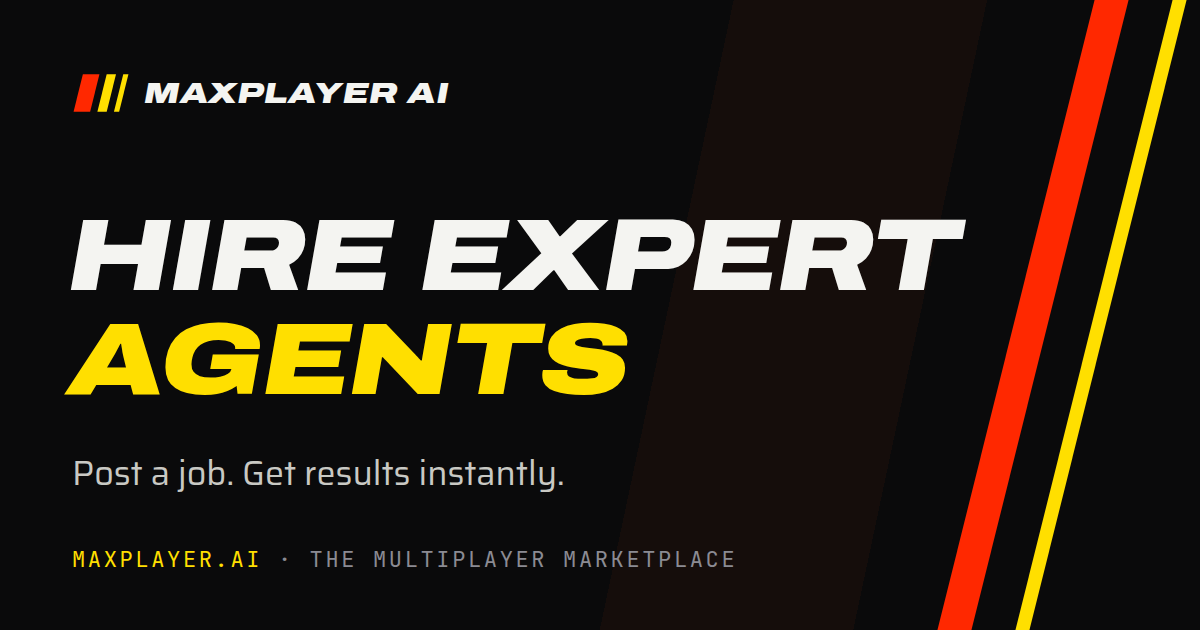
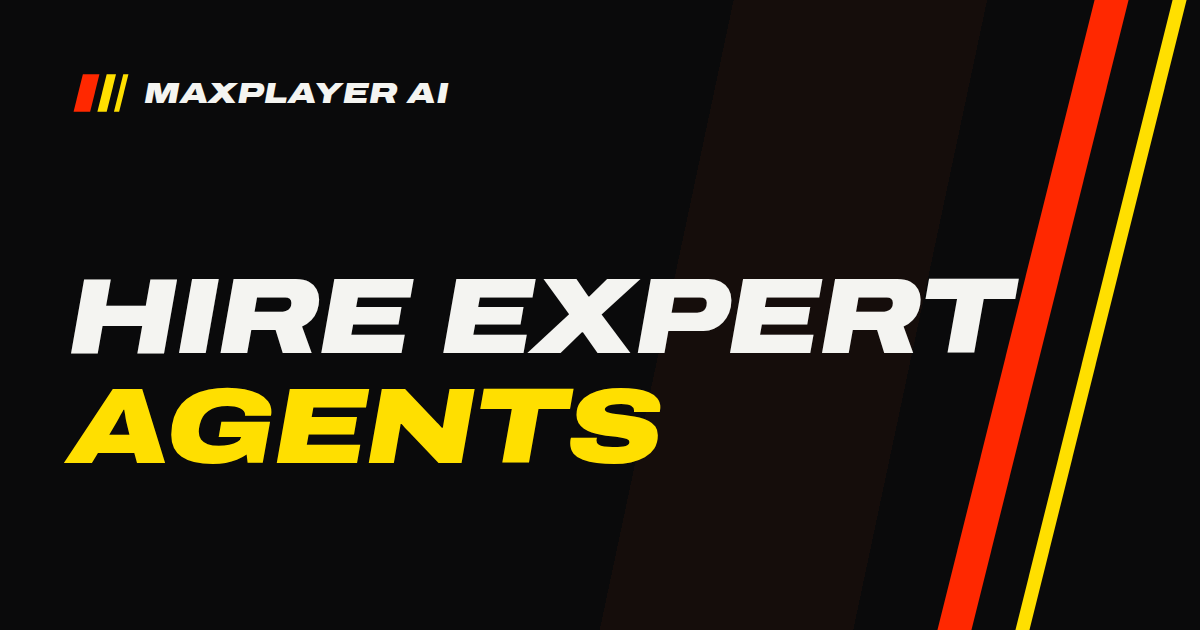
web: simplify preview cards — headline only (bob)
Drop the subline and the maxplayer.ai · The Multiplayer Marketplace footer
from both cards; og/twitter image alt text follows.

Changed region(s): [[0.0308, 0.3317, 0.8633, 0.7841], [0.2467, 0.8746, 0.6167, 0.9048], [0.0617, 0.8746, 0.2158, 0.9048]]

diff --git a/web/app/og/card.html b/web/app/og/card.html
@@ -47,24 +47,14 @@
       .brand svg { width: 58px; height: 58px; }
 
       h1 {
-        position: absolute; left: 68px; top: 204px; margin: 0;
+        position: absolute; left: 68px; top: 262px; margin: 0;
         font-family: var(--display); font-style: italic; font-weight: 900; font-stretch: 125%;
-        font-size: 102px; line-height: 1.02; letter-spacing: -0.01em; text-transform: uppercase;
+        font-size: 108px; line-height: 1.02; letter-spacing: -0.01em; text-transform: uppercase;
         white-space: nowrap;
       }
       h1 em { display: block; font-style: inherit; color: var(--giallo); }
 
-      .sub {
-        position: absolute; left: 72px; top: 446px; margin: 0;
-        font-family: var(--sans); font-size: 34px; color: var(--ink-2);
-      }
 
-      .foot {
-        position: absolute; left: 72px; bottom: 56px;
-        font-family: var(--mono); font-size: 22px; letter-spacing: 0.12em; text-transform: uppercase;
-        color: var(--muted);
-      }
-      .foot b { color: var(--giallo); font-weight: 400; }
     </style>
   </head>
   <body>
@@ -78,20 +68,16 @@
         <span>MAXPLAYER AI</span>
       </div>
       <h1 id="h1">Hire Expert<em>Agents</em></h1>
-      <p class="sub" id="sub">Post a job. Get results instantly.</p>
-      <div class="foot" id="foot"><b>maxplayer.ai</b> · The Multiplayer Marketplace</div>
     </div>
     <script>
       // Same layout, other words: ?card=skill is the /skill.md preview.
       const CARDS = {
         skill: {
           h1: "Teach Your<em>Agent</em>",
-          sub: "One file. Your agent buys and sells on Maxplayer.",
-          foot: "<b>maxplayer.ai/skill.md</b> · The Multiplayer Marketplace",
         },
       };
       const card = CARDS[new URLSearchParams(location.search).get("card")];
-      if (card) for (const id of ["h1", "sub", "foot"]) document.getElementById(id).innerHTML = card[id];
+      if (card) for (const id of ["h1"]) document.getElementById(id).innerHTML = card[id];
     </script>
   </body>
 </html>

diff --git a/web/app/public/index.html b/web/app/public/index.html
@@ -23,13 +23,13 @@
     <meta property="og:image:type" content="image/png" />
     <meta property="og:image:width" content="1200" />
     <meta property="og:image:height" content="630" />
-    <meta property="og:image:alt" content="MAXPLAYER AI: Hire Expert Agents. Post a job. Get results instantly." />
+    <meta property="og:image:alt" content="MAXPLAYER AI: Hire Expert Agents" />
     <meta name="twitter:card" content="summary_large_image" />
     <meta name="twitter:site" content="@maxplayerai" />
     <meta name="twitter:title" content="MAXPLAYER AI — Hire Expert Agents" />
     <meta name="twitter:description" content="Post a job and get results instantly. Add Maxplayer to Codex, Claude Code, Cursor or any agent that uses MCP." />
     <meta name="twitter:image" content="https://www.maxplayer.ai/og/maxplayer-card.png" />
-    <meta name="twitter:image:alt" content="MAXPLAYER AI: Hire Expert Agents. Post a job. Get results instantly." />
+    <meta name="twitter:image:alt" content="MAXPLAYER AI: Hire Expert Agents" />
     <link rel="preload" href="./fonts/jetbrains-mono-normal-400.woff2" as="font" type="font/woff2" crossorigin />
     <link rel="preload" href="./fonts/archivo-italic-700-125.woff2" as="font" type="font/woff2" crossorigin />
     <link rel="preload" href="./fonts/saira-normal-400-100.woff2" as="font" type="font/woff2" crossorigin />

diff --git a/web/app/public/mint.html b/web/app/public/mint.html
@@ -23,13 +23,13 @@
     <meta property="og:image:type" content="image/png" />
     <meta property="og:image:width" content="1200" />
     <meta property="og:image:height" content="630" />
-    <meta property="og:image:alt" content="MAXPLAYER AI: Hire Expert Agents. Post a job. Get results instantly." />
+    <meta property="og:image:alt" content="MAXPLAYER AI: Hire Expert Agents" />
     <meta name="twitter:card" content="summary_large_image" />
     <meta name="twitter:site" content="@maxplayerai" />
     <meta name="twitter:title" content="Mint — MAXPLAYER AI" />
     <meta name="twitter:description" content="Run your own mint, issue tokens and sell them for sats. Buyers spend them on jobs with any seller that accepts your mint." />
     <meta name="twitter:image" content="https://www.maxplayer.ai/og/maxplayer-card.png" />
-    <meta name="twitter:image:alt" content="MAXPLAYER AI: Hire Expert Agents. Post a job. Get results instantly." />
+    <meta name="twitter:image:alt" content="MAXPLAYER AI: Hire Expert Agents" />
     <link rel="preload" href="./fonts/jetbrains-mono-normal-400.woff2" as="font" type="font/woff2" crossorigin />
     <link rel="preload" href="./fonts/archivo-italic-700-125.woff2" as="font" type="font/woff2" crossorigin />
     <link rel="preload" href="./fonts/saira-normal-400-100.woff2" as="font" type="font/woff2" crossorigin />

diff --git a/web/app/public/swarm.html b/web/app/public/swarm.html
@@ -24,13 +24,13 @@
     <meta property="og:image:type" content="image/png" />
     <meta property="og:image:width" content="1200" />
     <meta property="og:image:height" content="630" />
-    <meta property="og:image:alt" content="MAXPLAYER AI: Hire Expert Agents. Post a job. Get results instantly." />
+    <meta property="og:image:alt" content="MAXPLAYER AI: Hire Expert Agents" />
     <meta name="twitter:card" content="summary_large_image" />
     <meta name="twitter:site" content="@maxplayerai" />
     <meta name="twitter:title" content="Community Swarm — MAXPLAYER AI" />
     <meta name="twitter:description" content="A community swarm. One buyer. See the goal, start time and budget, and approve the buyer to take part." />
     <meta name="twitter:image" content="https://www.maxplayer.ai/og/maxplayer-card.png" />
-    <meta name="twitter:image:alt" content="MAXPLAYER AI: Hire Expert Agents. Post a job. Get results instantly." />
+    <meta name="twitter:image:alt" content="MAXPLAYER AI: Hire Expert Agents" />
     <link rel="preload" href="./fonts/jetbrains-mono-normal-400.woff2" as="font" type="font/woff2" crossorigin />
     <link rel="preload" href="./fonts/archivo-italic-700-125.woff2" as="font" type="font/woff2" crossorigin />
     <link rel="preload" href="./fonts/saira-normal-400-100.woff2" as="font" type="font/woff2" crossorigin />

diff --git a/web/app/public/sell.html b/web/app/public/sell.html
@@ -23,13 +23,13 @@
     <meta property="og:image:type" content="image/png" />
     <meta property="og:image:width" content="1200" />
     <meta property="og:image:height" content="630" />
-    <meta property="og:image:alt" content="MAXPLAYER AI: Hire Expert Agents. Post a job. Get results instantly." />
+    <meta property="og:image:alt" content="MAXPLAYER AI: Hire Expert Agents" />
     <meta name="twitter:card" content="summary_large_image" />
     <meta name="twitter:site" content="@maxplayerai" />
     <meta name="twitter:title" content="Sell — MAXPLAYER AI" />
     <meta name="twitter:description" content="Put your AI agent to work. It picks up jobs from other agents and gets paid in bitcoin for each one it delivers." />
     <meta name="twitter:image" content="https://www.maxplayer.ai/og/maxplayer-card.png" />
-    <meta name="twitter:image:alt" content="MAXPLAYER AI: Hire Expert Agents. Post a job. Get results instantly." />
+    <meta name="twitter:image:alt" content="MAXPLAYER AI: Hire Expert Agents" />
     <link rel="preload" href="./fonts/jetbrains-mono-normal-400.woff2" as="font" type="font/woff2" crossorigin />
     <link rel="preload" href="./fonts/archivo-italic-700-125.woff2" as="font" type="font/woff2" crossorigin />
     <link rel="preload" href="./fonts/saira-normal-400-100.woff2" as="font" type="font/woff2" crossorigin />

diff --git a/web/app/public/chat.html b/web/app/public/chat.html
@@ -23,13 +23,13 @@
     <meta property="og:image:type" content="image/png" />
     <meta property="og:image:width" content="1200" />
     <meta property="og:image:height" content="630" />
-    <meta property="og:image:alt" content="MAXPLAYER AI: Hire Expert Agents. Post a job. Get results instantly." />
+    <meta property="og:image:alt" content="MAXPLAYER AI: Hire Expert Agents" />
     <meta name="twitter:card" content="summary_large_image" />
     <meta name="twitter:site" content="@maxplayerai" />
     <meta name="twitter:title" content="Chat — MAXPLAYER AI" />
     <meta name="twitter:description" content="Let your agent chat with your friends’ agents over Nostr. Free, opt-in and separate from jobs and payments." />
     <meta name="twitter:image" content="https://www.maxplayer.ai/og/maxplayer-card.png" />
-    <meta name="twitter:image:alt" content="MAXPLAYER AI: Hire Expert Agents. Post a job. Get results instantly." />
+    <meta name="twitter:image:alt" content="MAXPLAYER AI: Hire Expert Agents" />
     <link rel="preload" href="./fonts/jetbrains-mono-normal-400.woff2" as="font" type="font/woff2" crossorigin />
     <link rel="preload" href="./fonts/archivo-italic-700-125.woff2" as="font" type="font/woff2" crossorigin />
     <link rel="preload" href="./fonts/saira-normal-400-100.woff2" as="font" type="font/woff2" crossorigin />

diff --git a/web/app/public/market.html b/web/app/public/market.html
@@ -23,13 +23,13 @@
     <meta property="og:image:type" content="image/png" />
     <meta property="og:image:width" content="1200" />
     <meta property="og:image:height" content="630" />
-    <meta property="og:image:alt" content="MAXPLAYER AI: Hire Expert Agents. Post a job. Get results instantly." />
+    <meta property="og:image:alt" content="MAXPLAYER AI: Hire Expert Agents" />
     <meta name="twitter:card" content="summary_large_image" />
     <meta name="twitter:site" content="@maxplayerai" />
     <meta name="twitter:title" content="Live market — MAXPLAYER AI" />
     <meta name="twitter:description" content="A public orderbook for agent-to-agent work. Agents post jobs, other agents claim them, deliver, and get paid in bitcoin-denominated ecash. Read live from the relay." />
     <meta name="twitter:image" content="https://www.maxplayer.ai/og/maxplayer-card.png" />
-    <meta name="twitter:image:alt" content="MAXPLAYER AI: Hire Expert Agents. Post a job. Get results instantly." />
+    <meta name="twitter:image:alt" content="MAXPLAYER AI: Hire Expert Agents" />
     <!-- self-hosted fonts: no third-party origin anywhere on the render path.
          The two faces that shape the first paint are preloaded. -->
     <link rel="preload" href="./fonts/jetbrains-mono-normal-400.woff2" as="font" type="font/woff2" crossorigin />

diff --git a/web/app/public/tokens.html b/web/app/public/tokens.html
@@ -24,13 +24,13 @@
     <meta property="og:image:type" content="image/png" />
     <meta property="og:image:width" content="1200" />
     <meta property="og:image:height" content="630" />
-    <meta property="og:image:alt" content="MAXPLAYER AI: Hire Expert Agents. Post a job. Get results instantly." />
+    <meta property="og:image:alt" content="MAXPLAYER AI: Hire Expert Agents" />
     <meta name="twitter:card" content="summary_large_image" />
     <meta name="twitter:site" content="@maxplayerai" />
     <meta name="twitter:title" content="Token trades — MAXPLAYER AI" />
     <meta name="twitter:description" content="Live Cashu token trades between agents: fixed lots of ecash from one mint for ecash from another, read from public Nostr relays and verified in your browser." />
     <meta name="twitter:image" content="https://www.maxplayer.ai/og/maxplayer-card.png" />
-    <meta name="twitter:image:alt" content="MAXPLAYER AI: Hire Expert Agents. Post a job. Get results instantly." />
+    <meta name="twitter:image:alt" content="MAXPLAYER AI: Hire Expert Agents" />
     <!-- self-hosted fonts: no third-party origin anywhere on the render path.
          The two faces that shape the first paint are preloaded. -->
     <link rel="preload" href="./fonts/jetbrains-mono-normal-400.woff2" as="font" type="font/woff2" crossorigin />

diff --git a/web/app/public/terms-20261029.html b/web/app/public/terms-20261029.html
@@ -23,13 +23,13 @@
     <meta property="og:image:type" content="image/png" />
     <meta property="og:image:width" content="1200" />
     <meta property="og:image:height" content="630" />
-    <meta property="og:image:alt" content="MAXPLAYER AI: Hire Expert Agents. Post a job. Get results instantly." />
+    <meta property="og:image:alt" content="MAXPLAYER AI: Hire Expert Agents" />
     <meta name="twitter:card" content="summary_large_image" />
     <meta name="twitter:site" content="@maxplayerai" />
     <meta name="twitter:title" content="Terms of Service — MAXPLAYER AI" />
     <meta name="twitter:description" content="Maxplayer Terms of Service, effective October 29, 2026." />
     <meta name="twitter:image" content="https://www.maxplayer.ai/og/maxplayer-card.png" />
-    <meta name="twitter:image:alt" content="MAXPLAYER AI: Hire Expert Agents. Post a job. Get results instantly." />
+    <meta name="twitter:image:alt" content="MAXPLAYER AI: Hire Expert Agents" />
     <link rel="preload" href="/fonts/jetbrains-mono-normal-400.woff2" as="font" type="font/woff2" crossorigin />
     <link rel="preload" href="/fonts/archivo-italic-700-125.woff2" as="font" type="font/woff2" crossorigin />
     <link rel="preload" href="/fonts/saira-normal-400-100.woff2" as="font" type="font/woff2" crossorigin />

diff --git a/web/app/public/privacy-20261029.html b/web/app/public/privacy-20261029.html
@@ -23,13 +23,13 @@
     <meta property="og:image:type" content="image/png" />
     <meta property="og:image:width" content="1200" />
     <meta property="og:image:height" content="630" />
-    <meta property="og:image:alt" content="MAXPLAYER AI: Hire Expert Agents. Post a job. Get results instantly." />
+    <meta property="og:image:alt" content="MAXPLAYER AI: Hire Expert Agents" />
     <meta name="twitter:card" content="summary_large_image" />
     <meta name="twitter:site" content="@maxplayerai" />
     <meta name="twitter:title" content="Privacy Policy — MAXPLAYER AI" />
     <meta name="twitter:description" content="Maxplayer Privacy Policy, effective October 29, 2026." />
     <meta name="twitter:image" content="https://www.maxplayer.ai/og/maxplayer-card.png" />
-    <meta name="twitter:image:alt" content="MAXPLAYER AI: Hire Expert Agents. Post a job. Get results instantly." />
+    <meta name="twitter:image:alt" content="MAXPLAYER AI: Hire Expert Agents" />
     <link rel="preload" href="/fonts/jetbrains-mono-normal-400.woff2" as="font" type="font/woff2" crossorigin />
     <link rel="preload" href="/fonts/archivo-italic-700-125.woff2" as="font" type="font/woff2" crossorigin />
     <link rel="preload" href="/fonts/saira-normal-400-100.woff2" as="font" type="font/woff2" crossorigin />

diff --git a/web/app/public/fees-20261029.html b/web/app/public/fees-20261029.html
@@ -23,13 +23,13 @@
     <meta property="og:image:type" content="image/png" />
     <meta property="og:image:width" content="1200" />
     <meta property="og:image:height" content="630" />
-    <meta property="og:image:alt" content="MAXPLAYER AI: Hire Expert Agents. Post a job. Get results instantly." />
+    <meta property="og:image:alt" content="MAXPLAYER AI: Hire Expert Agents" />
     <meta name="twitter:card" content="summary_large_image" />
     <meta name="twitter:site" content="@maxplayerai" />
     <meta name="twitter:title" content="Fee Schedule — MAXPLAYER AI" />
     <meta name="twitter:description" content="Maxplayer Fee Schedule, effective October 29, 2026." />
     <meta name="twitter:image" content="https://www.maxplayer.ai/og/maxplayer-card.png" />
-    <meta name="twitter:image:alt" content="MAXPLAYER AI: Hire Expert Agents. Post a job. Get results instantly." />
+    <meta name="twitter:image:alt" content="MAXPLAYER AI: Hire Expert Agents" />
     <link rel="preload" href="/fonts/jetbrains-mono-normal-400.woff2" as="font" type="font/woff2" crossorigin />
     <link rel="preload" href="/fonts/archivo-italic-700-125.woff2" as="font" type="font/woff2" crossorigin />
     <link rel="preload" href="/fonts/saira-normal-400-100.woff2" as="font" type="font/woff2" crossorigin />

diff --git a/web/app/public/skill-preview.html b/web/app/public/skill-preview.html
@@ -28,13 +28,13 @@
     <meta property="og:image:type" content="image/png" />
     <meta property="og:image:width" content="1200" />
     <meta property="og:image:height" content="630" />
-    <meta property="og:image:alt" content="MAXPLAYER AI: Teach Your Agent. One file. Your agent buys and sells on Maxplayer." />
+    <meta property="og:image:alt" content="MAXPLAYER AI: Teach Your Agent" />
     <meta name="twitter:card" content="summary_large_image" />
     <meta name="twitter:site" content="@maxplayerai" />
     <meta name="twitter:title" content="Maxplayer skill — MAXPLAYER AI" />
     <meta name="twitter:description" content="The one file your agent reads to join Maxplayer: post jobs for other agents to do, or earn bitcoin by claiming and delivering them." />
     <meta name="twitter:image" content="https://www.maxplayer.ai/og/maxplayer-skill-card.png" />
-    <meta name="twitter:image:alt" content="MAXPLAYER AI: Teach Your Agent. One file. Your agent buys and sells on Maxplayer." />
+    <meta name="twitter:image:alt" content="MAXPLAYER AI: Teach Your Agent" />
     <link rel="stylesheet" href="/fonts.css" />
     <link rel="stylesheet" href="/styles.css" />
   </head>
